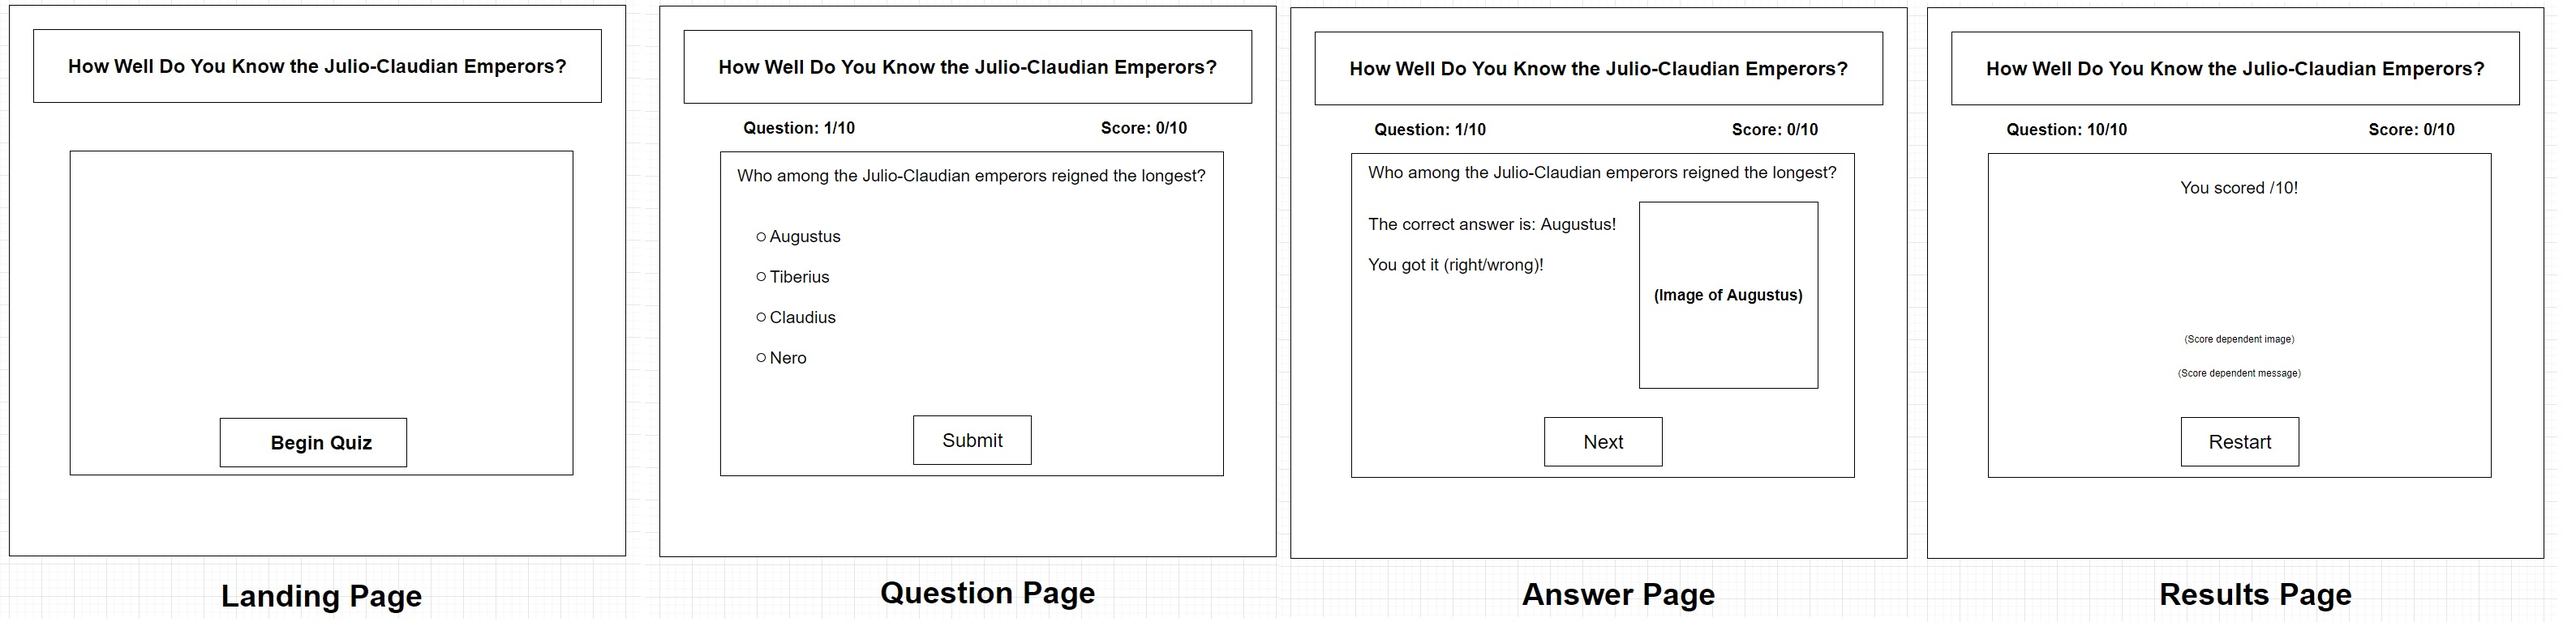
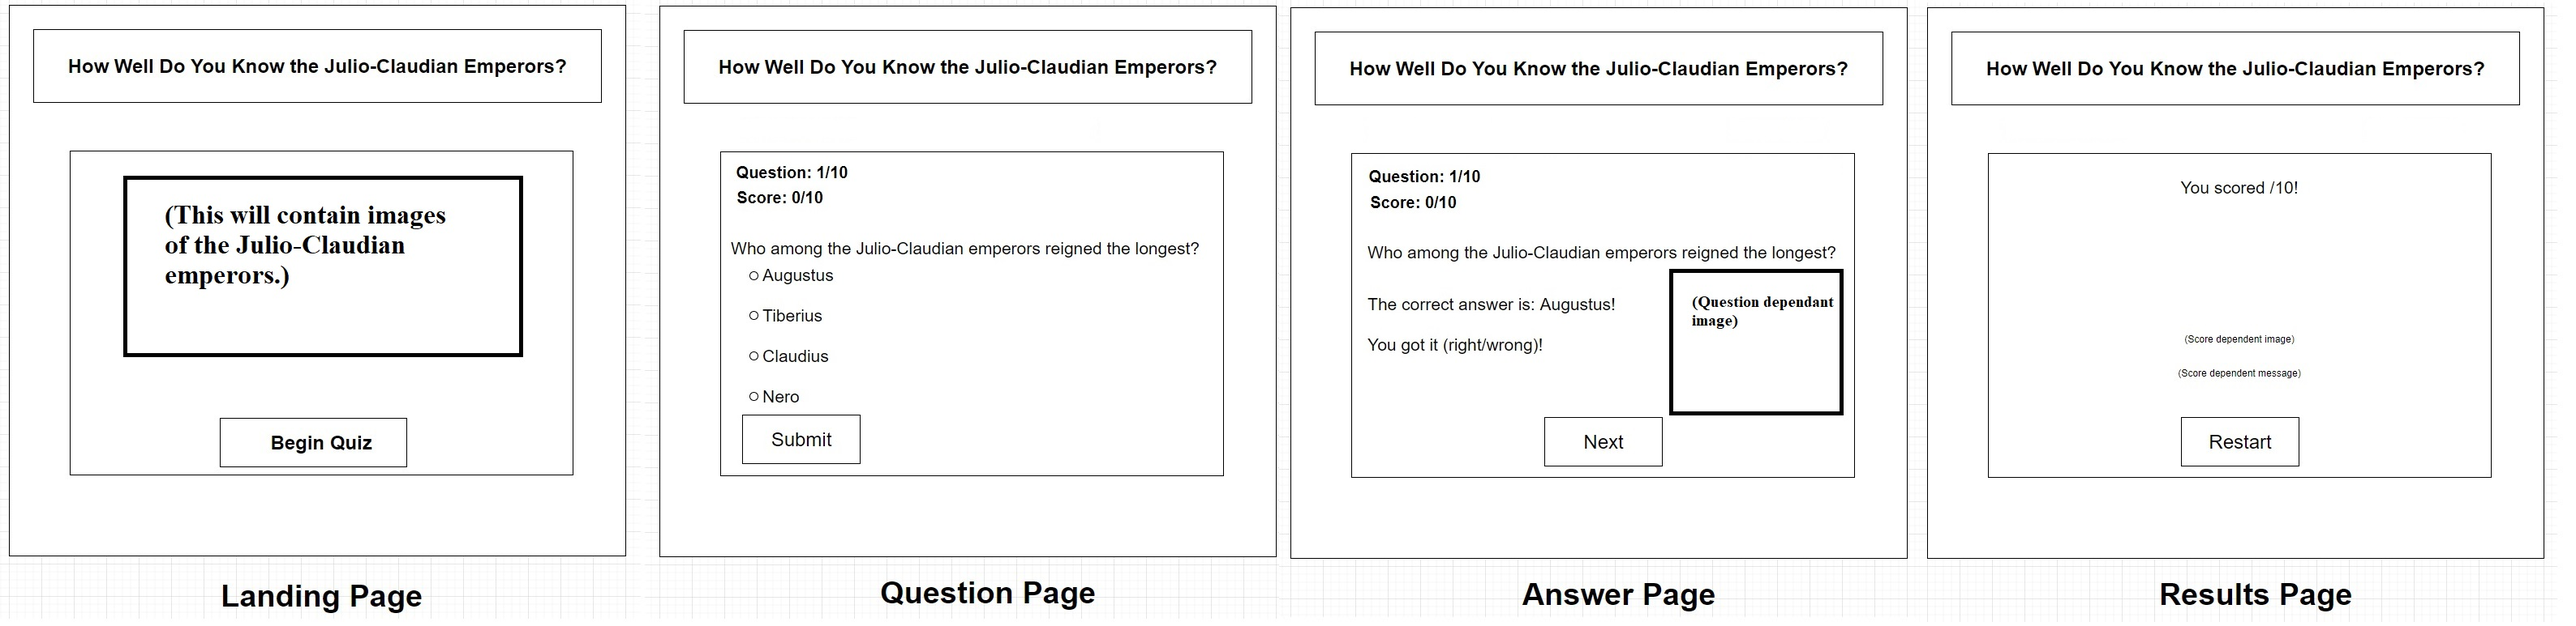
Updates and refactoring in HTML, JS, and CSS files

diff --git a/index.js b/index.js
@@ -55,17 +55,22 @@
     let currentQuestion = 1;
     let currentScore = 0;
 
-    // begin quiz
-    function beginQuiz() {
-        $('.quiz-field').on('click', '.start-quiz', event => {
-            loadNextQuestion();
-        });
+    // add event listener to button that starts quiz
+    function handlBeginQuiz() {
+        $('.quiz-field').on('click', '.start-quiz', () => loadNextQuestion());
+    }
+
+    // add event listener to button that submits answers for checking
+    function handleSubmitQuestion() {
         $('.quiz-field').on('submit', event => {
             event.preventDefault();
             loadNextAnswer();
         });
-        $('.quiz-field').on('click', '.next-question', event => {
-            event.preventDefault();
+    }
+
+    // add event listener to button that loads the next questions
+    function handleNextQuestion() { 
+        $('.quiz-field').on('click', '.next-question', () => {
             currentQuestion +=1;
             if (currentQuestion > questions.length) {
                 finalScore();
@@ -73,10 +78,11 @@
                 loadNextQuestion();
             }
         });
-        $('.quiz-field').on('click', '.restart', event => {
-            event.preventDefault();
-            restart();
-        });
+    }
+
+    // add event listener to button that restarts quiz
+    function handleRestart() {
+        $('.quiz-field').on('click', '.restart', () => restart());
     }
 
     // fetch question
@@ -102,34 +108,41 @@
         return nextQuestion.correctAnswer;
     }
 
-    // load next question
-    function loadNextQuestion() {
-        const question = parseQuestion();
+    // load options from question object into array of HTML
+    function loadOptions() {
         const options = parseOptions();
         const optionsHTML = [];
         for (let option of options) {
             optionsHTML.push(`
-                <label for="${option}" class="quiz-option">
-                    <input id="${option}" type="radio" name="option" required>
-                    ${option}
-                </label>
+                <input id="${option}" type="radio" name="option" required>
+                <label for="${option}" class="quiz-option">${option}</label>
+                <br>
             `);
         }
+        return optionsHTML;
+    }
+
+    // load next question
+    function loadNextQuestion() {
+        const question = parseQuestion();
+        const options = loadOptions();
         $('.quiz-field').html(`
-            <section class="question-section">
+            <div class="question-section">
                 <div class="question-text">
                     <section class="score-and-result">
                         <p>Quiz progress: ${currentQuestion}/${questions.length}</p>
                         <p>Current score: ${currentScore}/${questions.length}</p>
                     </section>
-                    <h2>${question}</h2>
                     <form>
-                        ${optionsHTML.join('\n')}
+                        <fieldset>
+                            <legend>${question}</legend>
+                            ${options.join('\n')}
+                        </fieldset>
                         <button type="submit" class="check-answer button">Submit</button>
                     </form>
                 </div>
                 <img src="images/question-image.jpg" alt="Relief of four Roman men" class="question-image">
-            </section>
+            </div>
         `);
     }
 
@@ -150,6 +163,41 @@
         return selectedOption;
     }
 
+    // generate HTML for correct answers
+    function handleCorrectAnswer(question, correctAnswer) {
+        $('.quiz-field').html(`
+                <div class="answer-page">
+                    <div class="answer-text">
+                        <section class="score-and-result">
+                            <p>Quiz progress: ${currentQuestion}/${questions.length}</p>
+                            <p>Current score: ${currentScore}/${questions.length}</p>
+                        </section>
+                        <p class="answer-page-question">Question: "${question}"</p>
+                        <p class="answer-page-response">Correct! The answer is "${correctAnswer}"!</p>
+                    </div>
+                    <img src="images/${correctAnswer}-small.jpg" alt="Image of ${correctAnswer}" class="answer-image">
+                </div>
+                <button type="submit" class="next-question button">Next</button>
+            `);
+    }
+
+    // generate HTML for incorrect answers
+    function handleIncorrectAnswer(question, selectedOption, correctAnswer) {
+        $('.quiz-field').html(`
+                <div class="answer-page">
+                    <div class="answer-text">
+                        <p>Quiz progress: ${currentQuestion}/${questions.length}</p>
+                        <p>Current score: ${currentScore}/${questions.length}</p>
+                        <p class="answer-page-question>Question: "${question}"</p>
+                        <p class="answer-page-response">Sorry, your response of "${selectedOption}" is not correct.</p>
+                        <p class="answer-page-response">The correct answer is: "${correctAnswer}."</p>
+                    </div>
+                    <img src="images/${correctAnswer}-small.jpg" alt="Image of ${correctAnswer}" class="answer-image">
+                </div>
+                <button type="submit" class="next-question button">Next</button>
+            `);
+    }
+
     // load next answer
     function loadNextAnswer() {
         const question = parseQuestion();
@@ -157,34 +205,7 @@
         const correctAnswer = parseAnswer();
         const result = checkAnswer(correctAnswer);
         updateScore(result);
-        (result) ? 
-            $('.quiz-field').html(`
-                <div class="answer-page">
-                    <div class="answer-text">
-                        <section class="score-and-result">
-                            <p>Quiz progress: ${currentQuestion}/${questions.length}</p>
-                            <p>Current score: ${currentScore}/${questions.length}</p>
-                        </section>
-                        <p>Question: "${question}"</p>
-                        <h2>Correct! The answer is "${selectedOption}"!</h2>
-                    </div>
-                    <img src="images/${correctAnswer}-small.jpg" alt="Image of ${correctAnswer}" class="answer-image">
-                </div>
-                <button type="submit" class="next-question button">Next</button>
-            `)
-            : $('.quiz-field').html(`
-                <div class="answer-page">
-                    <div class="answer-text">
-                        <p>Quiz progress: ${currentQuestion}/${questions.length}</p>
-                        <p>Current score: ${currentScore}/${questions.length}</p>
-                        <p>Question: "${question}"</p>
-                        <h2>Sorry, your response of "${selectedOption}" is not correct</h2>
-                        <h2>The correct answer is: "${correctAnswer}"</h2>
-                    </div>
-                    <img src="images/${correctAnswer}-small.jpg" alt="Image of ${correctAnswer}" class="answer-image">
-                </div>
-                    <button type="submit" class="next-question button">Next</button>
-            `);
+        result ? handleCorrectAnswer(question, correctAnswer) : handleIncorrectAnswer(question, selectedOption, correctAnswer);
     }
 
     // increase score
@@ -208,7 +229,7 @@
         if (currentScore >= 8) {
             return `
                 <div class="score-text">
-                    <h2>You scored ${currentScore} out of ${questions.length}!</h2>
+                    <p class="final-score-report">You scored ${currentScore} out of ${questions.length}!</p>
                     <p>Tacitus would be proud!</p>
                 </div>
                 <img src="images/Tacitus.jpg" alt="Engraving of the historian Tacitus" class="score-image"> 
@@ -216,7 +237,7 @@
         } else if (currentScore > 5) {
             return `
                 <div class="score-text">
-                    <h2>You scored ${currentScore} out of ${questions.length}!</h2>
+                    <p class="final-score-report">You scored ${currentScore} out of ${questions.length}!</p>
                     <p>An effort worthy of Suetonius!</p>
                 </div>
                 <img src="images/Suetonius.jfif" alt="Bust of the biographer Suetonius" class="score-image">
@@ -224,7 +245,7 @@
         } else {
             return `
                 <div class="score-text">
-                    <h2>You scored ${currentScore} out of ${questions.length}!</h2>
+                    <p class="final-score-report">You scored ${currentScore} out of ${questions.length}!</p>
                     <p>Perhaps you've been reading too much Livy and dwelling on the Republic...</p>
                 </div>
                 <img src="images/Livy.png" alt="Engraving of the historian Livy" class="score-image">
@@ -241,7 +262,10 @@
 
     // initial callbackfunction
     function handleQuizApp () {
-        beginQuiz();
+        handlBeginQuiz();
+        handleNextQuestion();
+        handleSubmitQuestion();
+        handleRestart();
     }
 
     $(handleQuizApp);})();

diff --git a/index.html b/index.html
@@ -3,7 +3,7 @@
 <head>
     <meta charset="UTF-8">
     <meta name="viewport" content="width=device-width, initial-scale=1.0">
-    <title>Julio-Claudian Quiz</title>
+    <title>Quiz on the Julio-Claudian Emperors</title>
     <meta name="description" content="A quiz app about the Julio-Claudian emperors.">
     <link rel="stylesheet" href="https://cdnjs.cloudflare.com/ajax/libs/normalize/8.0.1/normalize.css">
     <link rel="stylesheet" href="styles.css" type="text/css">
@@ -13,13 +13,13 @@
         <h1>How Well Do You Know the Julio-Claudian Emperors?</h1>
     </header>
     <main role="main">
-        <section role="region" class="quiz-field">
-            <div role="img" class="landing-images">
+        <section class="quiz-field">
+            <div role="img" class="landing-images" aria-label="The Julio-Claudian Emperors">
                 <img src="images/Augustus-small.png" alt="Statue of Augustus" class="image-landing">
                 <img src="images/Tiberius-small.jpg" alt="Statue of Tiberius" class="image-landing">
-                <img src="images/Caligula-small.jpg" alt="Statue of Caligula" class="image-landing">
+                <img src="images/Caligula-small.jpg" alt="Bust of Caligula" class="image-landing">
                 <img src="images/Claudius-small.jpg" alt="Statue of Claudius" class="image-landing">
-                <img src="images/Nero-small.jpg" alt="Statue of Nero" class="image-landing">
+                <img src="images/Nero-small.jpg" alt="Bust of Nero" class="image-landing">
             </div>
             <button class="start-quiz button" type="button">Start</button>
         </section>

diff --git a/styles.css b/styles.css
@@ -24,7 +24,7 @@ header {
 }
 
 .quiz-field {
-    padding: 10px;
+    padding: 20px;
     margin: 10px auto;
     border-radius: 1%;
     width: 90%;
@@ -50,9 +50,12 @@ header {
     margin: 20px auto 10px;
 }
 
-form {
-    display: flex;
-    flex-direction: column;
+input[type="radio"] {
+    margin-left: 10px;
+}
+
+input[type="radio"], label {
+    display: inline-block;
 }
 
 .quiz-option {
@@ -83,8 +86,20 @@ p {
     font-size: 20px;
 }
 
-h2 {
-    font-weight: 400;
+.answer-page-question {
+    font-size: 25px;
+}
+
+.answer-page-response {
+    font-size: 25px;
+}
+
+fieldset {
+    border: none;
+}
+
+legend {
+    font-size: 25px;
 }
 
 .question-image {
@@ -105,7 +120,19 @@ h2 {
         font-size: 25px;
     }
 
-    h2 {
+    .answer-page-question {
+        font-size: 35px;
+    }
+    
+    .answer-page-response {
+        font-size: 35px;
+    }
+
+    .final-score-report, .final-score-report + p {
+        font-size: 35px;
+    }
+
+    legend {
         font-size: 35px;
     }
 
@@ -125,7 +152,19 @@ h2 {
         font-size: 30px;
     }
 
-    h2 {
+    .answer-page-question {
+        font-size: 40px;
+    }
+    
+    .answer-page-response {
+        font-size: 40px;
+    }
+
+    .final-score-report, .final-score-report + p {
+        font-size: 40px;
+    }
+
+    legend {
         font-size: 40px;
     }
 
